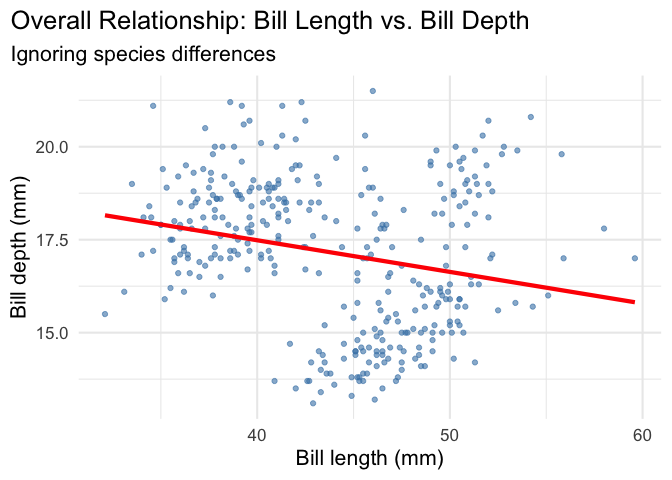
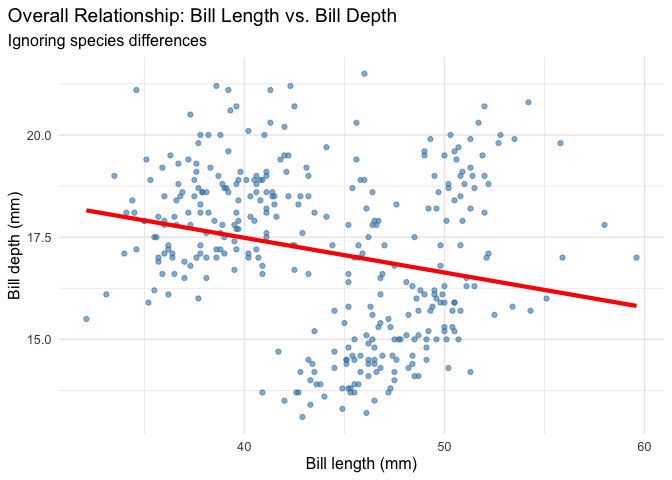
huio

diff --git a/README.md b/README.md
@@ -44,7 +44,7 @@ step.
 plot1 <- ggplot(data = penguins,
         aes(x = bill_length_mm,
         y = bill_depth_mm)) +
-  theme_minimal(16) +
+  theme_minimal(12) +
   geom_point(alpha = 0.6, color = "steelblue") +
   labs(title = "Overall Relationship: Bill Length vs. Bill Depth",
        subtitle = "Ignoring species differences",
@@ -74,7 +74,7 @@ plot2 <- ggplot(data = penguins,
        aes(x = bill_length_mm,
            y = bill_depth_mm,
            color = species)) +
-  theme_minimal(16) +
+  theme_minimal(12) +
   geom_point(alpha = 0.7) +
   scale_color_manual(values = c("darkorange","purple","cyan4"),
                      name = "Species") +
@@ -119,10 +119,10 @@ comparison_plot <- (plot1 | plot2) +
     subtitle = "The same penguin data reveals opposite relationships depending on whether we consider species grouping",
     caption = "LEFT: Overall relationship shows positive correlation (longer bills = deeper bills)\nRIGHT: Within each species, the relationship is actually negative (longer bills = shallower bills)\nThis reversal occurs because different species have different bill size ranges, creating a spurious positive correlation when data is aggregated.",
     theme = theme(
-      plot.title = element_text(size = 20, face = "bold", hjust = 0.5),
-      plot.subtitle = element_text(size = 14, hjust = 0.5, margin = margin(b = 20)),
-      plot.caption = element_text(size = 12, hjust = 0, face = "italic", 
-                                 lineheight = 1.3, margin = margin(t = 20))
+      plot.title = element_text(size = 14, face = "bold", hjust = 0.5),
+      plot.subtitle = element_text(size = 11, hjust = 0.5, margin = margin(b = 20)),
+      plot.caption = element_text(size = 9, hjust = 0, face = "italic", 
+                                 lineheight = 1.2, margin = margin(t = 10))
     )
   )
 
